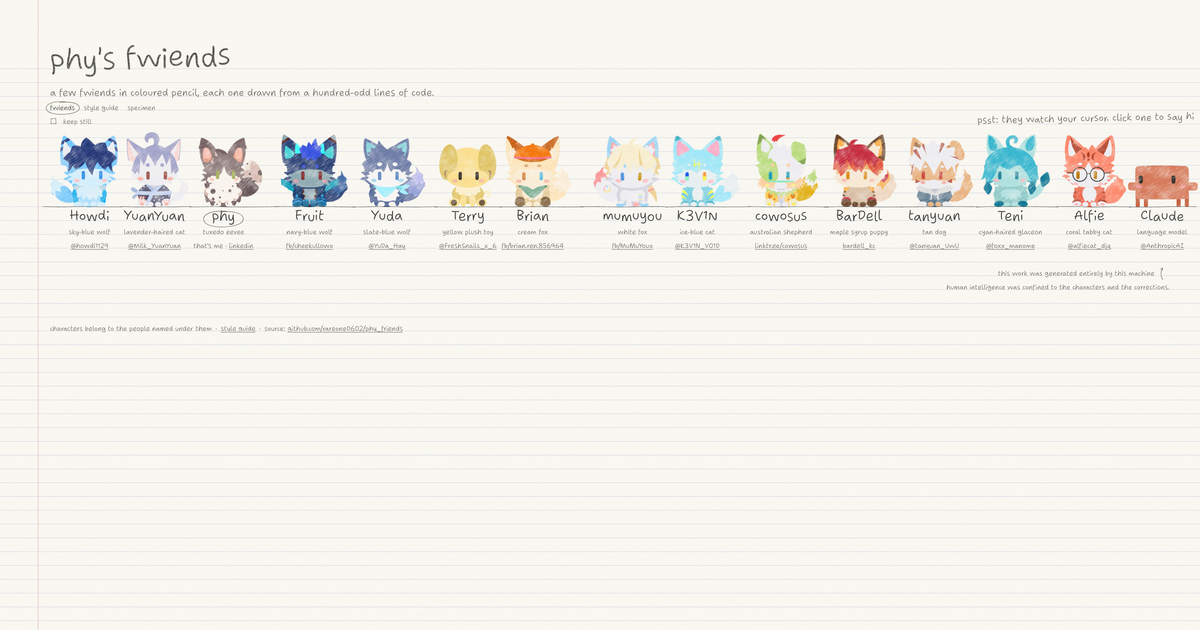
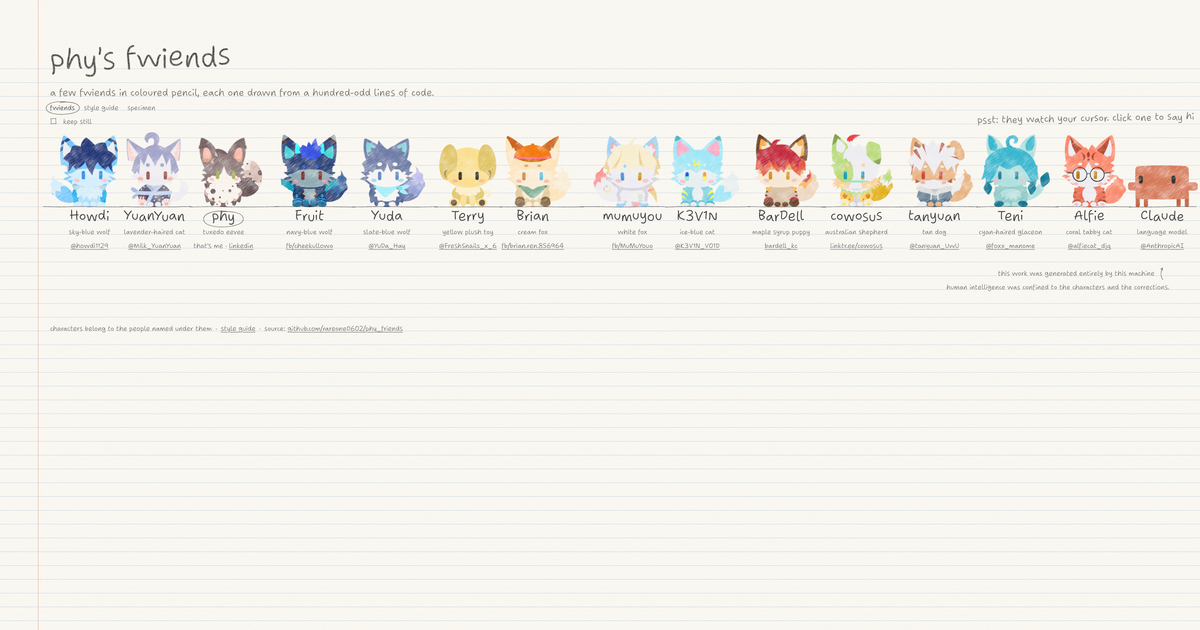
Swap BarDell and cowosus in the gallery
BarDell now stands tenth and cowosus eleventh, in the gallery, roll
call B, og:image:alt, the cast and every page's script tags. The rows
break in the same places at every width; on a phone K3V1N now pairs
with BarDell and cowosus with tanyuan, both narrower than Brian and
mumuyou.

Claude-Session: https://claude.ai/code/session_01XH9LddQCSyoJB6fbhgQYtv

Changed region(s): [[0.6167, 0.2111, 0.7708, 0.3921]]

diff --git a/index.html b/index.html
@@ -18,7 +18,7 @@
 <meta property="og:image" content="https://rareone0602.github.io/phy_friends/site/preview.png">
 <meta property="og:image:width" content="1200">
 <meta property="og:image:height" content="630">
-<meta property="og:image:alt" content="fifteen fwiends in coloured pencil on lined notebook paper, each standing on a pencilled line: Howdi, a sky-blue wolf; YuanYuan, a white cat with a lavender mop, in a navy yukata; phy, a tuxedo Eevee; Fruit, a navy-blue wolf with a royal-blue mop and two little cyan horns; Yuda, a slate-blue wolf in a cyan bandana; Terry, a yellow plush toy with huge floppy ears; Brian, a cream fox in an orange newsboy cap; mumuyou, a white fox with a blond mop; K3V1N, an ice-blue cat with a yellow mark on his forehead; cowosus, a white Australian Shepherd like a pineapple, with golden thighs and a green-tipped tail; BarDell, a cream puppy with a crimson mop and a red-tipped tail; tanyuan, a tan dog with a red-streaked white mop, in a blue-grey hoodie; Teni, a Glaceon with a cyan bob; Alfie, a coral tabby cat in round glasses; and Claude, the machine that drew them, as a small terracotta block with four short legs">
+<meta property="og:image:alt" content="fifteen fwiends in coloured pencil on lined notebook paper, each standing on a pencilled line: Howdi, a sky-blue wolf; YuanYuan, a white cat with a lavender mop, in a navy yukata; phy, a tuxedo Eevee; Fruit, a navy-blue wolf with a royal-blue mop and two little cyan horns; Yuda, a slate-blue wolf in a cyan bandana; Terry, a yellow plush toy with huge floppy ears; Brian, a cream fox in an orange newsboy cap; mumuyou, a white fox with a blond mop; K3V1N, an ice-blue cat with a yellow mark on his forehead; BarDell, a cream puppy with a crimson mop and a red-tipped tail; cowosus, a white Australian Shepherd like a pineapple, with golden thighs and a green-tipped tail; tanyuan, a tan dog with a red-streaked white mop, in a blue-grey hoodie; Teni, a Glaceon with a cyan bob; Alfie, a coral tabby cat in round glasses; and Claude, the machine that drew them, as a small terracotta block with four short legs">
 <meta name="twitter:card" content="summary_large_image">
 <link rel="preconnect" href="https://fonts.googleapis.com">
 <link rel="preconnect" href="https://fonts.gstatic.com" crossorigin>
@@ -300,15 +300,15 @@
           <p id="looks-kevin" hidden>an ice-blue cat with a yellow mark on his forehead, one eye blue over mint and the other orange over yellow, and a white-tipped tail</p>
           <figcaption><span class="name hand">K3V1N</span><span class="species">ice-blue cat</span><span class="credit"><a href="https://x.com/K3V1N_V01D">@K3V1N_V01D</a></span></figcaption>
         </figure></li>
-        <li class="friend" id="cowosus" data-friend="cowosus"><figure>
-          <div class="rig" role="button" tabindex="0" aria-label="say hi to cowosus" aria-describedby="looks-cowosus"></div>
-          <p id="looks-cowosus" hidden>a white Australian Shepherd like a pineapple, with golden thighs scaled in orange diamonds, a ruff and tail tipped with green leaves, a lime patch round one eye, one folded ear, a red-tipped curl, a mint band across his muzzle and blue eyes, the left one orange at the bottom</p>
-          <figcaption><span class="name hand">cowosus</span><span class="species">australian shepherd</span><span class="credit"><a href="https://linktr.ee/cowosus">linktr.ee/<wbr>cowosus</a></span></figcaption>
-        </figure></li>
         <li class="friend" id="bardell" data-friend="bardell"><figure>
           <div class="rig" role="button" tabindex="0" aria-label="say hi to BarDell" aria-describedby="looks-bardell"></div>
           <p id="looks-bardell" hidden>a cream puppy with a shaggy crimson mop and a curl on top, chocolate-brown ears and feet, amber eyes and a red-tipped tail</p>
           <figcaption><span class="name hand">BarDell</span><span class="species">maple syrup puppy</span><span class="credit"><a href="https://sites.google.com/view/bardell-kc">bardell_kc</a></span></figcaption>
+        </figure></li>
+        <li class="friend" id="cowosus" data-friend="cowosus"><figure>
+          <div class="rig" role="button" tabindex="0" aria-label="say hi to cowosus" aria-describedby="looks-cowosus"></div>
+          <p id="looks-cowosus" hidden>a white Australian Shepherd like a pineapple, with golden thighs scaled in orange diamonds, a ruff and tail tipped with green leaves, a lime patch round one eye, one folded ear, a red-tipped curl, a mint band across his muzzle and blue eyes, the left one orange at the bottom</p>
+          <figcaption><span class="name hand">cowosus</span><span class="species">australian shepherd</span><span class="credit"><a href="https://linktr.ee/cowosus">linktr.ee/<wbr>cowosus</a></span></figcaption>
         </figure></li>
         <li class="friend" id="tanyuan" data-friend="tanyuan"><figure>
           <div class="rig" role="button" tabindex="0" aria-label="say hi to tanyuan" aria-describedby="looks-tanyuan"></div>
@@ -356,8 +356,8 @@
 <script src="characters/brian/brian.js"></script>
 <script src="characters/mumuyou/mumuyou.js"></script>
 <script src="characters/kevin/kevin.js"></script>
-<script src="characters/cowosus/cowosus.js"></script>
 <script src="characters/bardell/bardell.js"></script>
+<script src="characters/cowosus/cowosus.js"></script>
 <script src="characters/tanyuan/tanyuan.js"></script>
 <script src="characters/teni/teni.js"></script>
 <script src="characters/alfie/alfie.js"></script>

diff --git a/design/backup/roll-call-rise.html b/design/backup/roll-call-rise.html
@@ -21,7 +21,7 @@
 <meta property="og:image" content="https://rareone0602.github.io/phy_friends/site/preview.png">
 <meta property="og:image:width" content="1200">
 <meta property="og:image:height" content="630">
-<meta property="og:image:alt" content="fifteen fwiends in coloured pencil standing on pencilled lines on lined notebook paper: Howdi, a sky-blue wolf; YuanYuan, a white cat with a lavender mop, in a navy yukata; phy, a tuxedo Eevee; Fruit, a navy-blue wolf with a royal-blue mop and two little cyan horns; Yuda, a slate-blue wolf in a cyan bandana; Terry, a yellow plush toy with huge floppy ears; Brian, a cream fox in an orange newsboy cap; mumuyou, a white fox with a blond mop; K3V1N, an ice-blue cat with a yellow mark on his forehead; cowosus, a white Australian Shepherd like a pineapple, with golden thighs and a green-tipped tail; BarDell, a cream puppy with a crimson mop and a red-tipped tail; tanyuan, a tan dog with a red-streaked white mop, in a blue-grey hoodie; Teni, a Glaceon with a cyan bob; Alfie, a coral tabby cat in round glasses; and Claude, the machine that drew them, as a small terracotta block with four short legs">
+<meta property="og:image:alt" content="fifteen fwiends in coloured pencil standing on pencilled lines on lined notebook paper: Howdi, a sky-blue wolf; YuanYuan, a white cat with a lavender mop, in a navy yukata; phy, a tuxedo Eevee; Fruit, a navy-blue wolf with a royal-blue mop and two little cyan horns; Yuda, a slate-blue wolf in a cyan bandana; Terry, a yellow plush toy with huge floppy ears; Brian, a cream fox in an orange newsboy cap; mumuyou, a white fox with a blond mop; K3V1N, an ice-blue cat with a yellow mark on his forehead; BarDell, a cream puppy with a crimson mop and a red-tipped tail; cowosus, a white Australian Shepherd like a pineapple, with golden thighs and a green-tipped tail; tanyuan, a tan dog with a red-streaked white mop, in a blue-grey hoodie; Teni, a Glaceon with a cyan bob; Alfie, a coral tabby cat in round glasses; and Claude, the machine that drew them, as a small terracotta block with four short legs">
 <meta name="twitter:card" content="summary_large_image">
 <link rel="preconnect" href="https://fonts.googleapis.com">
 <link rel="preconnect" href="https://fonts.gstatic.com" crossorigin>
@@ -246,13 +246,13 @@
           <div class="rig" role="button" tabindex="0" aria-label="say hi to K3V1N, an ice-blue cat with a yellow mark on his forehead, one eye blue over mint and the other orange over yellow, and a white-tipped tail"></div>
           <figcaption><span class="name hand">K3V1N</span><span class="species">ice-blue cat</span><span class="credit"><a href="https://x.com/K3V1N_V01D">@K3V1N_V01D</a></span></figcaption>
         </figure></li>
-        <li class="friend" data-friend="cowosus"><figure>
-          <div class="rig" role="button" tabindex="0" aria-label="say hi to cowosus, a white Australian Shepherd like a pineapple, with golden thighs scaled in orange diamonds, a ruff and tail tipped with green leaves, a lime patch round one eye, one folded ear, a red-tipped curl, a mint band across his muzzle and blue eyes, the left one orange at the bottom"></div>
-          <figcaption><span class="name hand">cowosus</span><span class="species">australian shepherd</span><span class="credit"><a href="https://linktr.ee/cowosus">linktr.ee/<wbr>cowosus</a></span></figcaption>
-        </figure></li>
         <li class="friend" data-friend="bardell"><figure>
           <div class="rig" role="button" tabindex="0" aria-label="say hi to BarDell, a cream puppy with a shaggy crimson mop and a curl on top, chocolate-brown ears and feet, amber eyes and a red-tipped tail"></div>
           <figcaption><span class="name hand">BarDell</span><span class="species">maple syrup puppy</span><span class="credit"><a href="https://sites.google.com/view/bardell-kc">bardell_kc</a></span></figcaption>
+        </figure></li>
+        <li class="friend" data-friend="cowosus"><figure>
+          <div class="rig" role="button" tabindex="0" aria-label="say hi to cowosus, a white Australian Shepherd like a pineapple, with golden thighs scaled in orange diamonds, a ruff and tail tipped with green leaves, a lime patch round one eye, one folded ear, a red-tipped curl, a mint band across his muzzle and blue eyes, the left one orange at the bottom"></div>
+          <figcaption><span class="name hand">cowosus</span><span class="species">australian shepherd</span><span class="credit"><a href="https://linktr.ee/cowosus">linktr.ee/<wbr>cowosus</a></span></figcaption>
         </figure></li>
         <li class="friend" data-friend="tanyuan"><figure>
           <div class="rig" role="button" tabindex="0" aria-label="say hi to tanyuan, a tan dog in a blue-grey hoodie, with a white mop streaked with red, red eyes and one folded ear"></div>
@@ -296,8 +296,8 @@
 <script src="../../characters/brian/brian.js"></script>
 <script src="../../characters/mumuyou/mumuyou.js"></script>
 <script src="../../characters/kevin/kevin.js"></script>
-<script src="../../characters/cowosus/cowosus.js"></script>
 <script src="../../characters/bardell/bardell.js"></script>
+<script src="../../characters/cowosus/cowosus.js"></script>
 <script src="../../characters/tanyuan/tanyuan.js"></script>
 <script src="../../characters/teni/teni.js"></script>
 <script src="../../characters/alfie/alfie.js"></script>

diff --git a/characters/cast.js b/characters/cast.js
@@ -55,13 +55,13 @@ PhyFriends.cast.define({
       name: 'K3V1N', pronoun: 'he', species: 'ice-blue cat',
       credit: { handle: '@K3V1N_V01D', href: 'https://x.com/K3V1N_V01D' }, agreed: ['gallery'],
     },
-    cowosus: {
-      name: 'cowosus', pronoun: 'he', species: 'australian shepherd',
-      credit: { handle: 'linktr.ee/cowosus', href: 'https://linktr.ee/cowosus' }, agreed: ['gallery'],
-    },
     bardell: {
       name: 'BarDell', pronoun: 'he', species: 'maple syrup puppy',
       credit: { handle: 'bardell_kc', href: 'https://sites.google.com/view/bardell-kc' }, agreed: ['gallery'],
+    },
+    cowosus: {
+      name: 'cowosus', pronoun: 'he', species: 'australian shepherd',
+      credit: { handle: 'linktr.ee/cowosus', href: 'https://linktr.ee/cowosus' }, agreed: ['gallery'],
     },
     tanyuan: {
       name: 'tanyuan', pronoun: 'he', species: 'tan dog',

diff --git a/demo/card/index.html b/demo/card/index.html
@@ -83,8 +83,8 @@
 <script src="../../characters/brian/brian.js"></script>
 <script src="../../characters/mumuyou/mumuyou.js"></script>
 <script src="../../characters/kevin/kevin.js"></script>
-<script src="../../characters/cowosus/cowosus.js"></script>
 <script src="../../characters/bardell/bardell.js"></script>
+<script src="../../characters/cowosus/cowosus.js"></script>
 <script src="../../characters/tanyuan/tanyuan.js"></script>
 <script src="../../characters/teni/teni.js"></script>
 <script src="../../characters/alfie/alfie.js"></script>

diff --git a/demo/roll-call/index.html b/demo/roll-call/index.html
@@ -74,8 +74,8 @@
 <script src="../../characters/brian/brian.js"></script>
 <script src="../../characters/mumuyou/mumuyou.js"></script>
 <script src="../../characters/kevin/kevin.js"></script>
-<script src="../../characters/cowosus/cowosus.js"></script>
 <script src="../../characters/bardell/bardell.js"></script>
+<script src="../../characters/cowosus/cowosus.js"></script>
 <script src="../../characters/tanyuan/tanyuan.js"></script>
 <script src="../../characters/teni/teni.js"></script>
 <script src="../../characters/alfie/alfie.js"></script>

diff --git a/test/index.html b/test/index.html
@@ -29,8 +29,8 @@
 <script src="../characters/brian/brian.js"></script>
 <script src="../characters/mumuyou/mumuyou.js"></script>
 <script src="../characters/kevin/kevin.js"></script>
-<script src="../characters/cowosus/cowosus.js"></script>
 <script src="../characters/bardell/bardell.js"></script>
+<script src="../characters/cowosus/cowosus.js"></script>
 <script src="../characters/tanyuan/tanyuan.js"></script>
 <script src="../characters/teni/teni.js"></script>
 <script src="../characters/alfie/alfie.js"></script>

diff --git a/tools/animate.html b/tools/animate.html
@@ -59,8 +59,8 @@
 <script src="../characters/brian/brian.js"></script>
 <script src="../characters/mumuyou/mumuyou.js"></script>
 <script src="../characters/kevin/kevin.js"></script>
-<script src="../characters/cowosus/cowosus.js"></script>
 <script src="../characters/bardell/bardell.js"></script>
+<script src="../characters/cowosus/cowosus.js"></script>
 <script src="../characters/tanyuan/tanyuan.js"></script>
 <script src="../characters/teni/teni.js"></script>
 <script src="../characters/alfie/alfie.js"></script>

diff --git a/tools/feelings.html b/tools/feelings.html
@@ -37,8 +37,8 @@
 <script src="../characters/brian/brian.js"></script>
 <script src="../characters/mumuyou/mumuyou.js"></script>
 <script src="../characters/kevin/kevin.js"></script>
-<script src="../characters/cowosus/cowosus.js"></script>
 <script src="../characters/bardell/bardell.js"></script>
+<script src="../characters/cowosus/cowosus.js"></script>
 <script src="../characters/tanyuan/tanyuan.js"></script>
 <script src="../characters/teni/teni.js"></script>
 <script src="../characters/alfie/alfie.js"></script>
